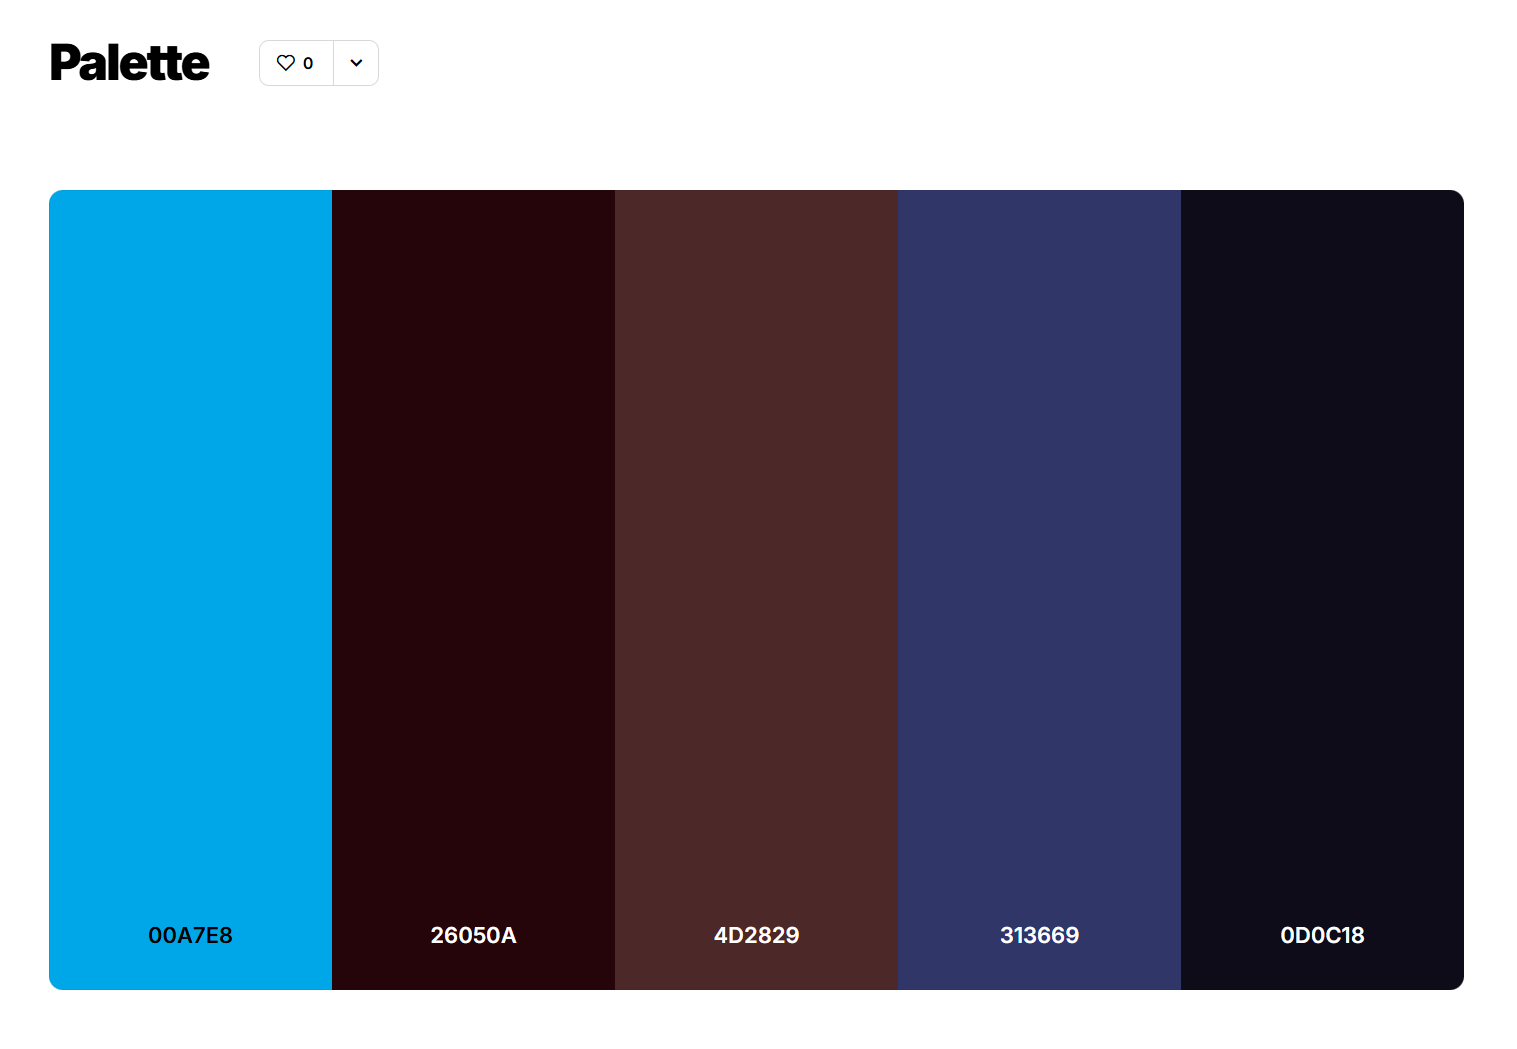
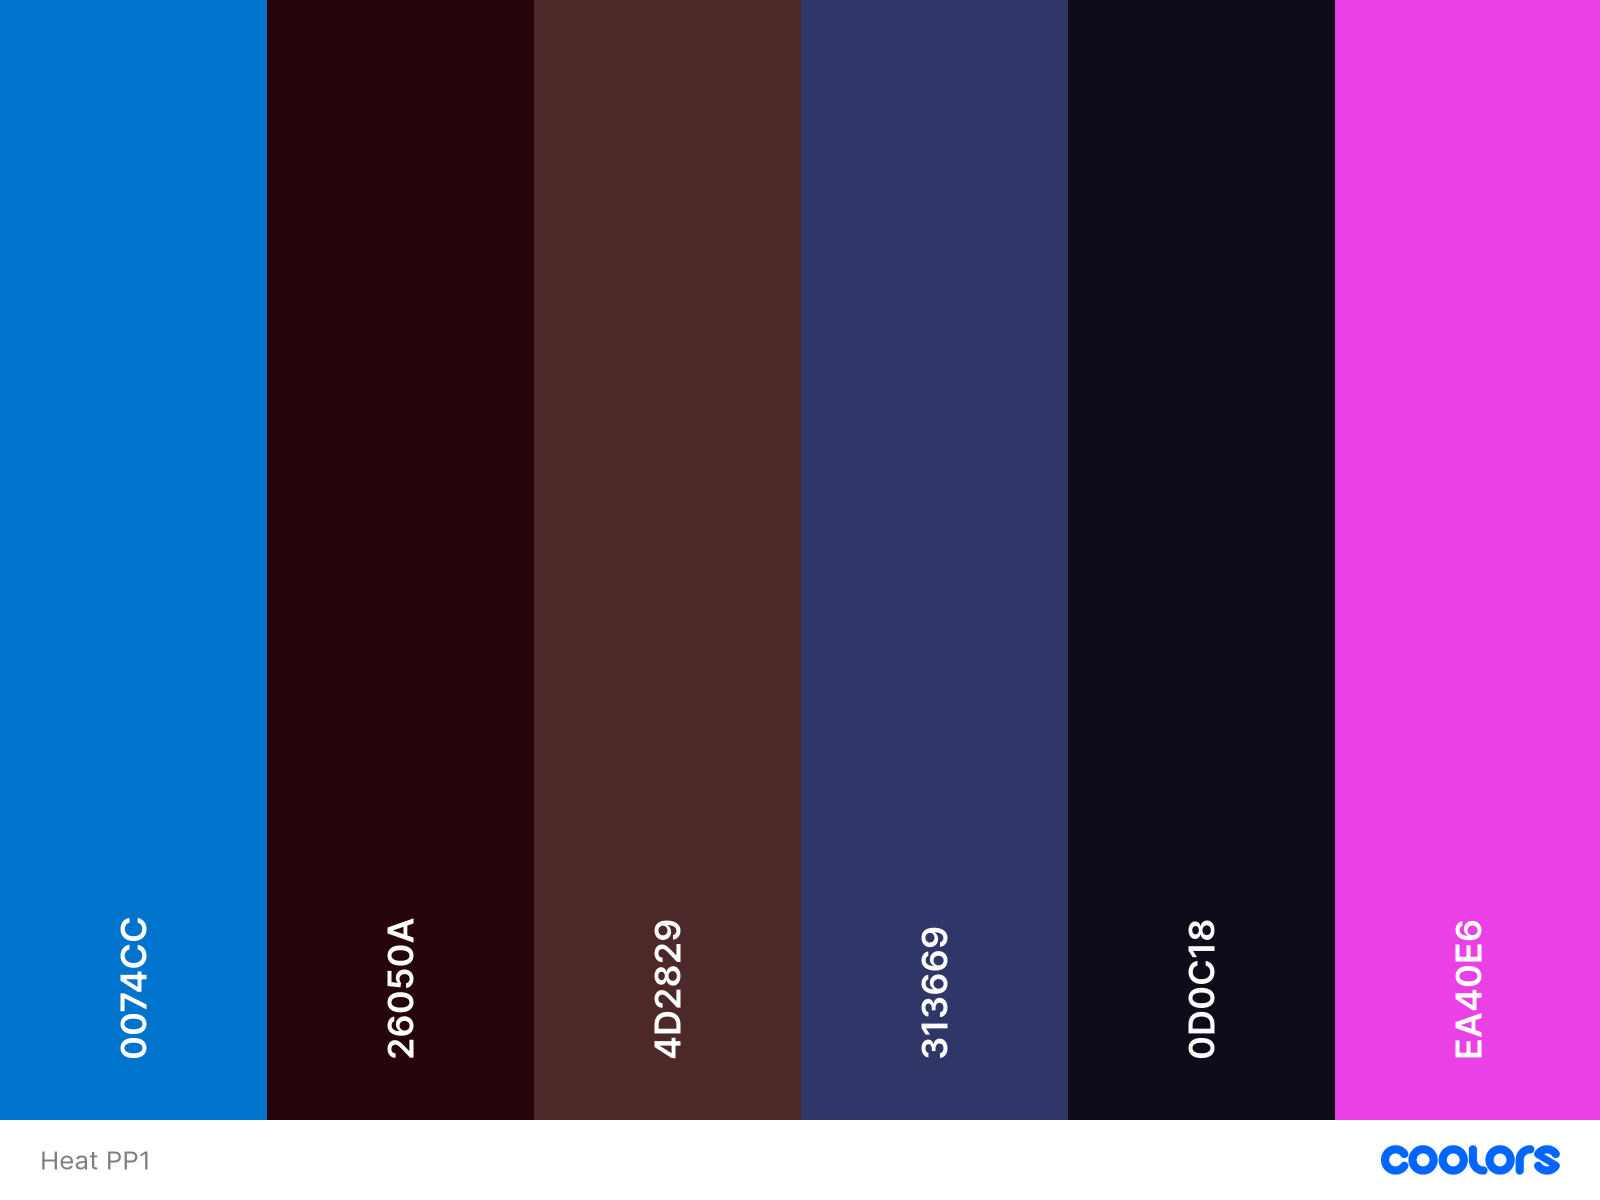
Fix button color contrast for accessibility

diff --git a/assets/css/style.css b/assets/css/style.css
@@ -10,7 +10,7 @@
   --font-logo: 'Audiowide', cursive;
 
   /* Colour Palette */
-  --color-button-accent: #00a7e8;
+  --color-button-accent: #0074cc;
   --color-border: #26050a;
   --color-navbar-background: #4d2829;
   --color-background: #313669;
